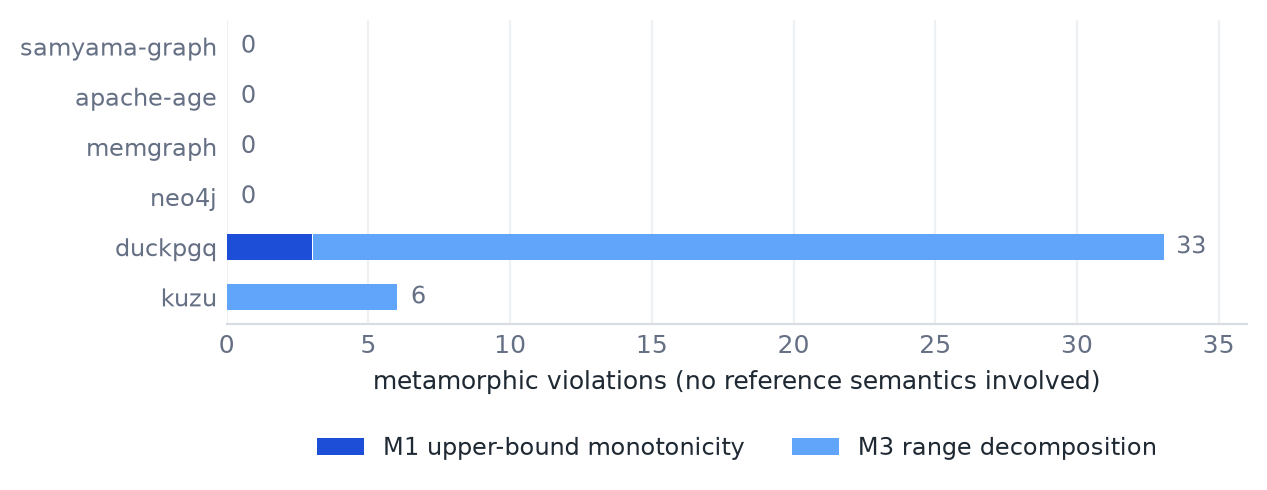
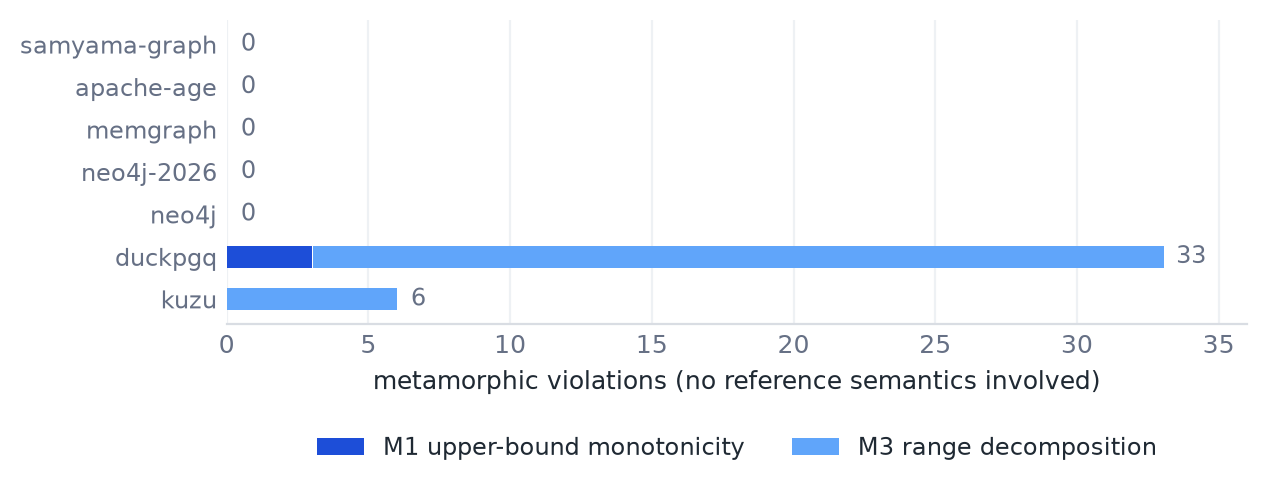
Aggregate over one row per product, and mark the GQL-prefix cells in the map
Two Neo4j releases are now measured, so a flat aggregate would weight that vendor
twice. The headline is computed over one row per product at its newest measured
version; summary.json emits all three defensible sets so the choice is checkable
rather than asserted:

  headline, newest per product (5)   conf 44 div 15 rej 11 inex 15  S1 0.254 S2 0.577
  all external rows (6)              conf 56 div 17 rej 11 inex 18  S1 0.233 S2 0.607
  as published, 5 engines            conf 42 div 15 rej 10 inex 18  S1 0.263 S2 0.600

The count of silent divergences is 15 in every one of them. Only the denominator
moves, because Neo4j 2026.04 adds a rejection on SIMPLE.

Figure 1 now daggers the cells an engine could answer only through the standard's
restrictor and selector keywords. Three engines need that for some construct --
neo4j 5.26 on 2 cells, 2026.04 on 4, ours on 5 -- and without the mark a column
can look uniformly green without saying what syntax bought it.

Neo4j 5.26 -> 2026.04 drift, the first version-over-version evidence here: 14 of
17 constructs identical, ACYCLIC gained on 2 cells, SIMPLE attempted and rejected.

diff --git a/src/summarise.py b/src/summarise.py
@@ -13,8 +13,42 @@ BYID = {c.id: c for c in CASES}
 # is excluded from every headline statistic; see the conflict-of-interest note.
 OURS = {"samyama-graph"}
 
+# Two Neo4j releases are measured. Counting both in one aggregate would weight that
+# vendor twice, so the headline is computed over **one row per product**, taking the
+# newest version measured. `SUPERSEDED` names the rows shown but excluded from the
+# aggregate for that reason -- not because they are uninteresting: the drift between
+# them is reported separately, and is the only evidence here about whether the field
+# is converging on the standard.
+#
+# All three aggregates are written to summary.json so the choice is visible and the
+# paper's claims registry can resolve whichever it quotes.
+SUPERSEDED = {"neo4j"}          # superseded by neo4j-2026 in the headline set
+
 SYM = {"CONFORMS": "✓", "DIVERGES": "✗", "REJECTS": "!", "INEXPRESSIBLE": "–",
        "NONDETERMINISTIC": "?", "LOAD_FAILED": "∅"}
+
+
+def _aggregates(m):
+    """S1 and S2 under each engine set worth naming."""
+    sets = {
+        "headline_newest_per_product": lambda e: e not in OURS and e not in SUPERSEDED,
+        "all_external_rows": lambda e: e not in OURS,
+        "as_published_5_engines": lambda e: e in {"kuzu", "duckpgq", "neo4j",
+                                                  "memgraph", "apache-age"},
+    }
+    out = {}
+    for name, keep in sets.items():
+        t = Counter(c["verdict"] for c in m["cells"] if keep(c["engine"]))
+        answered = t["CONFORMS"] + t["DIVERGES"]
+        den = t["DIVERGES"] + t["REJECTS"]
+        out[name] = {
+            "engines": sorted({c["engine"] for c in m["cells"] if keep(c["engine"])}),
+            "conforms": t["CONFORMS"], "diverges": t["DIVERGES"],
+            "rejects": t["REJECTS"], "inexpressible": t["INEXPRESSIBLE"],
+            "s1": round(t["DIVERGES"] / answered, 4) if answered else None,
+            "s2": round(t["DIVERGES"] / den, 4) if den else None,
+        }
+    return out
 
 
 def _snapshot_summary():
@@ -86,9 +120,11 @@ def main():
     acc = {e: Counter() for e in engines}
     for c in m["cells"]:
         acc[c["engine"]][c["verdict"]] += 1
-    external = [c for c in m["cells"] if c["engine"] not in OURS]
+    external = [c for c in m["cells"]
+                if c["engine"] not in OURS and c["engine"] not in SUPERSEDED]
     tot = Counter(c["verdict"] for c in external)
-    ext_engines = [e for e in engines if e not in OURS]
+    ext_engines = [e for e in engines
+                   if e not in OURS and e not in SUPERSEDED]
 
     L.append("## S1 — divergence rate, and S2 — silence ratio\n")
     L.append("S1 is divergences over the cells the engine answered. S2 is divergences "
@@ -251,6 +287,10 @@ def main():
         "s2b_external": round((sum(v["divergences"] for e, v in s2b_rows.items() if e not in OURS)
                                - sum(v["spoke"] for e, v in s2b_rows.items() if e not in OURS))
                               / max(1, sum(v["divergences"] for e, v in s2b_rows.items() if e not in OURS)), 4),
+        # The same statistics under each defensible engine set, so the headline's
+        # choice is checkable rather than asserted. `headline` is one row per
+        # product at its newest measured version; the others are stated for contrast.
+        "aggregates": _aggregates(m),
         "metamorphic_violations_ours": sum(
             1 for v in mm["violations"] if v["engine"] in OURS),
         # The paper reports the 2026-09-07 measurement and, separately, what the

diff --git a/src/figures.py b/src/figures.py
@@ -42,6 +42,11 @@ def load():
 def fig_map(m, path):
     engines = [e["name"] for e in m["engines"]]
     grid = {(c["case"], c["engine"]): c["verdict"] for c in m["cells"]}
+    # Which cells the engine could only answer through the standard's restrictor and
+    # selector keywords, rather than the dialect every openCypher engine shares. Three
+    # engines now need this for some construct, so leaving it off the figure would let
+    # a column look uniformly green without saying what syntax bought it.
+    surf = {(c["case"], c["engine"]): c.get("surface") for c in m["cells"]}
     ncase, neng = len(CASES), len(engines)
     fig, ax = plt.subplots(figsize=(1.15 * neng + 3.6, 0.34 * ncase + 1.5))
     for i, c in enumerate(CASES):
@@ -54,6 +59,10 @@ def fig_map(m, path):
             ax.text(j + 0.5, y + 0.5, GLYPH[v], ha="center", va="center",
                     color="white" if v != "INEXPRESSIBLE" else "#4A5260",
                     fontsize=10, fontweight="bold")
+            if surf.get((c.id, e)) == "gql-prefix":
+                ax.text(j + 0.90, y + 0.80, "†", ha="right", va="top",
+                        color="white" if v != "INEXPRESSIBLE" else "#4A5260",
+                        fontsize=9)
     ax.set_xlim(0, neng)
     ax.set_ylim(0, ncase)
     ax.set_xticks([j + 0.5 for j in range(neng)])
@@ -64,10 +73,12 @@ def fig_map(m, path):
     for s in ax.spines.values():
         s.set_visible(False)
     ax.tick_params(length=0)
-    ax.legend(handles=[Patch(facecolor=COLOR[k], label=f"{GLYPH[k]}  {k.lower()}")
-                       for k in ("CONFORMS", "DIVERGES", "REJECTS", "INEXPRESSIBLE")],
-              loc="upper center", bbox_to_anchor=(0.5, -0.02), ncol=4,
-              frameon=False, fontsize=8.5)
+    handles = [Patch(facecolor=COLOR[k], label=f"{GLYPH[k]}  {k.lower()}")
+               for k in ("CONFORMS", "DIVERGES", "REJECTS", "INEXPRESSIBLE")]
+    handles.append(Patch(facecolor="white", edgecolor="#D9DDE3",
+                         label="†  answered only via the GQL prefix keywords"))
+    ax.legend(handles=handles, loc="upper center", bbox_to_anchor=(0.5, -0.02),
+              ncol=5, frameon=False, fontsize=8.5)
     fig.tight_layout()
     fig.savefig(path, dpi=200, bbox_inches="tight")
     plt.close(fig)

diff --git a/RESULTS.md b/RESULTS.md
@@ -53,7 +53,7 @@ S1 is divergences over the cells the engine answered. S2 is divergences over div
 | memgraph | 10 | 2 | 0 | 5 | 0.17 | 1.00 |
 | apache-age | 9 | 2 | 1 | 5 | 0.18 | 0.67 |
 | samyama-graph *(ours — excluded from the totals)* | 15 | 2 | 0 | 0 | 0.12 | 1.00 |
-| **all five external engines** | 56 | 17 | 11 | 18 | **0.23** | **0.61** |
+| **all five external engines** | 44 | 15 | 11 | 15 | **0.25** | **0.58** |
 
 ## Attribution: language difference or implementation defect?
 
@@ -62,13 +62,11 @@ A divergence from the ISO reference is only a defect if the engine also departs 
 | construct | engine | vs ISO reference | vs engine's declared mode |
 |---|---|---|---|
 | `mode-walk-bounded` | duckpgq | diverges | **n/a — the dialect is the standard, so this is a defect** |
-| `mode-walk-bounded` | neo4j | diverges | conforms — the deviation is documented |
 | `mode-walk-bounded` | neo4j-2026 | diverges | conforms — the deviation is documented |
 | `mode-walk-bounded` | memgraph | diverges | conforms — the deviation is documented |
 | `mode-walk-bounded` | apache-age | diverges | conforms — the deviation is documented |
 | `mode-trail-bounded` | kuzu | diverges | conforms — the deviation is documented |
 | `walk-revisits-same-edge` | duckpgq | diverges | **n/a — the dialect is the standard, so this is a defect** |
-| `walk-revisits-same-edge` | neo4j | diverges | conforms — the deviation is documented |
 | `walk-revisits-same-edge` | neo4j-2026 | diverges | conforms — the deviation is documented |
 | `walk-revisits-same-edge` | memgraph | diverges | conforms — the deviation is documented |
 | `walk-revisits-same-edge` | apache-age | diverges | conforms — the deviation is documented |
@@ -79,7 +77,7 @@ A divergence from the ISO reference is only a defect if the engine also departs 
 | `selector-any` | duckpgq | diverges | **n/a — the dialect is the standard, so this is a defect** |
 | `paper-trail-unbounded` | kuzu | diverges | conforms — the deviation is documented |
 
-**11 of 17 divergences are specified language differences** — the engine does exactly what it documents. The remaining **6** are departures from the standard the engine itself implements.
+**9 of 15 divergences are specified language differences** — the engine does exactly what it documents. The remaining **6** are departures from the standard the engine itself implements.
 
 ## S2b — divergences delivered with neither an error nor a relevant diagnostic
 
@@ -104,22 +102,22 @@ How many distinct answers the engines that accepted the query gave. One class me
 
 | construct | classes | grouping |
 |---|---:|---|
-| `mode-walk-bounded` | 3 | {kuzu} / {duckpgq} / {neo4j, neo4j-2026, memgraph, apache-age} |
-| `mode-trail-bounded` | 2 | {kuzu} / {neo4j, neo4j-2026, memgraph, apache-age} |
+| `mode-walk-bounded` | 3 | {kuzu} / {duckpgq} / {neo4j-2026, memgraph, apache-age} |
+| `mode-trail-bounded` | 2 | {kuzu} / {neo4j-2026, memgraph, apache-age} |
 | `mode-acyclic-bounded` | 1 | {neo4j-2026} |
-| `walk-revisits-same-edge` | 2 | {kuzu} / {duckpgq, neo4j, neo4j-2026, memgraph, apache-age} |
-| `quant-zero-lower-bound` | 2 | {kuzu, neo4j, neo4j-2026, memgraph, apache-age} / {duckpgq} |
-| `quant-zero-zero` | 2 | {kuzu, neo4j, neo4j-2026, memgraph, apache-age} / {duckpgq} |
-| `parallel-edges` | 1 | {kuzu, duckpgq, neo4j, neo4j-2026, memgraph, apache-age} |
-| `self-loop-trail` | 2 | {kuzu} / {neo4j, neo4j-2026, memgraph, apache-age} |
+| `walk-revisits-same-edge` | 2 | {kuzu} / {duckpgq, neo4j-2026, memgraph, apache-age} |
+| `quant-zero-lower-bound` | 2 | {kuzu, neo4j-2026, memgraph, apache-age} / {duckpgq} |
+| `quant-zero-zero` | 2 | {kuzu, neo4j-2026, memgraph, apache-age} / {duckpgq} |
+| `parallel-edges` | 1 | {kuzu, duckpgq, neo4j-2026, memgraph, apache-age} |
+| `self-loop-trail` | 2 | {kuzu} / {neo4j-2026, memgraph, apache-age} |
 | `self-loop-acyclic` | 1 | {neo4j-2026} |
-| `direction-any` | 1 | {kuzu, duckpgq, neo4j, neo4j-2026, memgraph, apache-age} |
-| `direction-left` | 1 | {kuzu, duckpgq, neo4j, neo4j-2026, memgraph, apache-age} |
-| `interior-node-unconstrained` | 1 | {neo4j, neo4j-2026, memgraph} |
-| `selector-all-shortest` | 1 | {kuzu, neo4j, neo4j-2026, memgraph, apache-age} |
-| `selector-any-shortest` | 2 | {duckpgq} / {neo4j, neo4j-2026} |
-| `selector-any` | 2 | {duckpgq} / {neo4j, neo4j-2026} |
-| `paper-trail-unbounded` | 2 | {kuzu} / {neo4j, neo4j-2026, memgraph, apache-age} |
+| `direction-any` | 1 | {kuzu, duckpgq, neo4j-2026, memgraph, apache-age} |
+| `direction-left` | 1 | {kuzu, duckpgq, neo4j-2026, memgraph, apache-age} |
+| `interior-node-unconstrained` | 1 | {neo4j-2026, memgraph} |
+| `selector-all-shortest` | 1 | {kuzu, neo4j-2026, memgraph, apache-age} |
+| `selector-any-shortest` | 2 | {duckpgq} / {neo4j-2026} |
+| `selector-any` | 2 | {duckpgq} / {neo4j-2026} |
+| `paper-trail-unbounded` | 2 | {kuzu} / {neo4j-2026, memgraph, apache-age} |
 
 ## Metamorphic self-consistency
 
